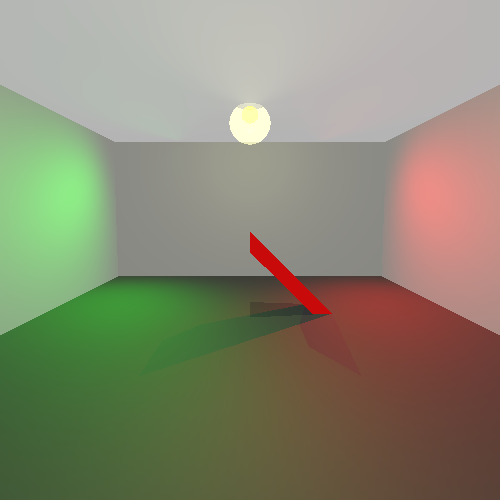
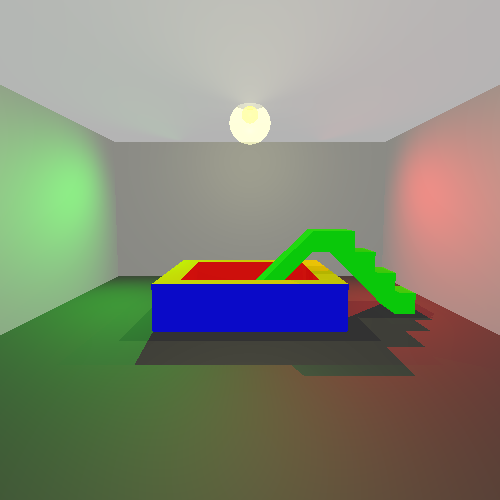
slide

Changed region(s): [[0.27, 0.45, 0.87, 0.75]]

diff --git a/unitTests/renderer/FinalTest.java b/unitTests/renderer/FinalTest.java
@@ -97,15 +97,60 @@ public class FinalTest {
                     ,bl2 = center.add(new Vector(-40,10,0))
                     ,bl3 = center.add(new Vector(-50,10,0))
                     ,bl4 = center.add(new Vector(-50,-10,0));
-            Color red = new Color(200, 10, 10);
+            Point s11 = center.add(new Vector(40, -10,10))
+                    ,s12 = center.add(new Vector(40, 10 , 10))
+                    ,s21 = center.add(new Vector(30, -10,20))
+                    ,s22 = center.add(new Vector(30, 10 , 20))
+                    ,s31 = center.add(new Vector(20, -10,30))
+                    ,s32 = center.add(new Vector(20, 10 , 30))
+                    ,s41 = center.add(new Vector(10, -10,40))
+                    ,s42 = center.add(new Vector(10, 10 , 40))
+                    ,si1 = center.add(new Vector(30, -10, 10))
+                    ,so1 = center.add(new Vector(30, 10, 10))
+                    ,si2 = center.add(new Vector(20, -10, 20))
+                    ,so2 = center.add(new Vector(20, 10, 20))
+                    ,si3 = center.add(new Vector(10, -10, 30))
+                    ,so3 = center.add(new Vector(10, 10, 30));
+            Color green = new Color(10, 200, 10);
             Color blue = new Color(10,10,200);
             Color yellow = new Color(180,180,0);
-            super.add(new Rec(br1, br2, br3, br4, red, material)
+            super.add(new Rec(br1, br2, br3, br4, green, material)
                     //,new Rec(br1, br2, u2, u1, red, material)
                     //,new Rec(br2, u2, b2, br3, red, material)
-                    ,new Rec(br4,br3,b2,b1,red,material)
-                    ,new Rec(br4,br1,u1,b1,red,material)
-                    ,new Rec(b1,b2,u2,u1,red,material));
+                    ,new Rec(br4,br3,b2,b1,green,material)
+                    ,new Rec(br4,br1,u1,b1,green,material)
+                    ,new Rec(b1,b2,u2,u1,green,material)
+
+                    ,new Triangle(s11, br1, si1).setEmission(green).setMaterial(material)
+                    ,new Rec(br1, br2, s12, s11, green, material)
+                    ,new Triangle(br2, s12, so1).setEmission(green).setMaterial(material)
+                    ,new Rec(s11, s12, so1, si1, green, material)
+
+                    ,new Triangle(s21, si2, si1).setEmission(green).setMaterial(material)
+                    ,new Rec(si1, so1, s22, s21, green, material)
+                    ,new Triangle(s22, so2, so1).setEmission(green).setMaterial(material)
+                    ,new Rec(s21, s22, so2, si2, green, material)
+
+                    ,new Triangle(s31, si3, si2).setEmission(green).setMaterial(material)
+                    ,new Rec(si2, so2, s32, s31, green, material)
+                    ,new Triangle(so3, s32, so2).setEmission(green).setMaterial(material)
+                    ,new Rec(s31, s32, so3, si3, green, material)
+
+                    ,new Triangle(s41, u1, si3).setEmission(green).setMaterial(material)
+                    ,new Rec(si3, so3, s42, s41, green, material)
+                    ,new Triangle(u2, s42, so3).setEmission(green).setMaterial(material)
+                    ,new Rec(s41, s42, u2, u1, green, material)
+
+                    ,new Rec(b1, b2, b3, b4, green, material)
+                    ,new Rec(b1, u1, u4, b4, green, material)
+                    ,new Rec(u1, u2, u3, u4, green, material)
+                    ,new Rec(u2, b2, b3, u3, green, material)
+                    ,new Rec(bl1, bl2, bl3, bl4, green, material)
+                    ,new Rec(bl1, bl2, b3, b4, green, material)
+                    ,new Rec(bl1, b4, u4, bl4, green, material)
+                    ,new Rec(bl4, bl3, u3, u4, green, material)
+                    ,new Rec(bl2, b3, u3, bl3, green, material));
+
         }
     }
 
@@ -242,8 +287,8 @@ public class FinalTest {
         scene.geometries.add(new Plane(new Point(0, 0, 0), new Vector(0, 0, 1)).setEmission(new Color(50,50,50)).setMaterial(wallM));
         scene.geometries.add(new Plane(new Point(0, 0, 100), new Vector(0, 0, -1)).setEmission(new Color(180,180,180)).setMaterial(wallM));
 
-        //scene.geometries.add(new BallsPool(new Point(0,0,0), poolM));
-        scene.geometries.add(new Slide(new Point(0,0,0), poolM));
+        scene.geometries.add(new BallsPool(new Point(0,0,0), poolM));
+        scene.geometries.add(new Slide(new Point(40,0,0), poolM));
         scene.geometries.add(new Sphere(lightPlace, 4).setEmission(yellow).setMaterial(new Material().setKd(0.5).setKs(0.5).setShininess(50).setKt(0.85)));
         scene.geometries.add(new Sphere(lightPlace.subtract(new Vector(0,0,4)), 10).setEmission(new Color(50,50,35)).setMaterial(new Material().setKd(0.5).setKs(0.5).setShininess(50).setKt(0.9)));
 
